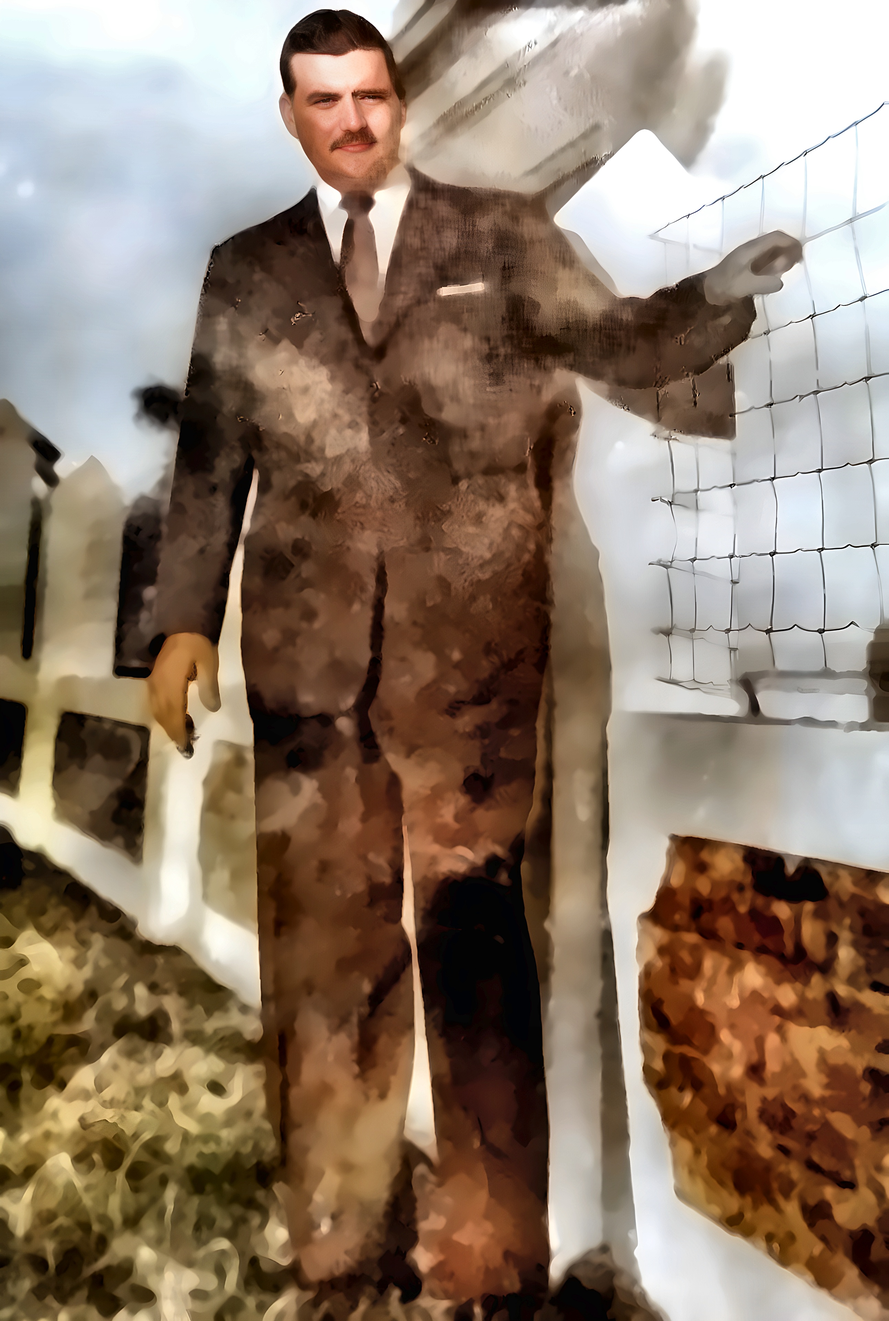
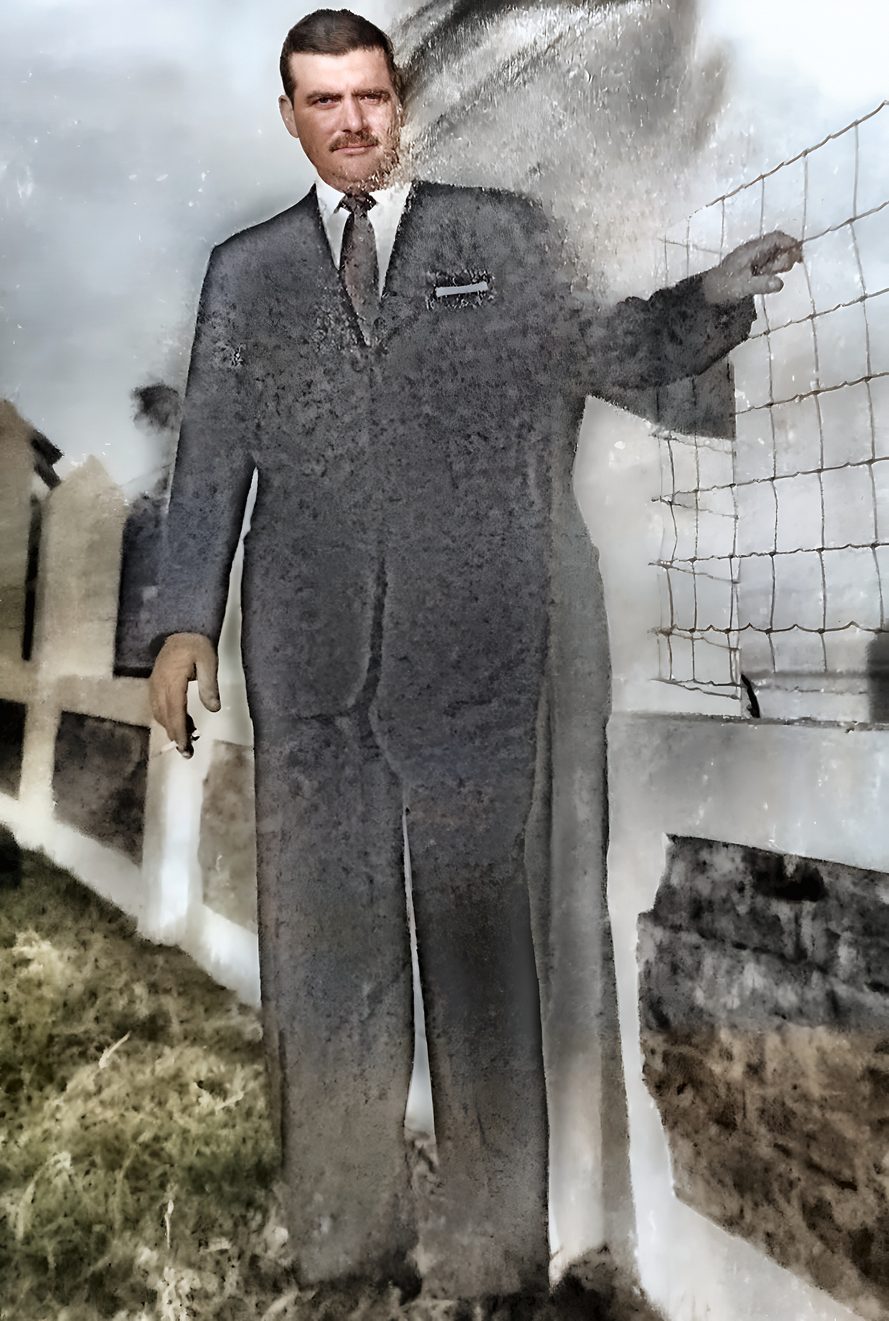
Restauración v2: sin manchas de humedad y sin efecto acuarela
Rehace el proceso con inpainting LaMa sobre máscara manual de daño,
denoise SCUNet, aplanado tonal del traje, neutralización del fantasma
sepia y SR con realesr-general-x4v3 más GFPGAN. Reemplaza el resultado
anterior y consolida el pipeline reproducible en scripts/pipeline_v2.py.

Claude-Session: https://claude.ai/code/session_014x9TZnxPBi37MxRu4q3MLT

diff --git a/restauracion-foto/scripts/pipeline_v2.py b/restauracion-foto/scripts/pipeline_v2.py
@@ -1,0 +1,180 @@
+#!/usr/bin/env python3
+"""Pipeline v2 de restauración completo, el que produjo el resultado final.
+
+Uso: python3 pipeline_v2.py <foto_entrada> <dir_salida>
+Requiere: torch, opencv, iopaint (LaMa), realesrgan, gfpgan, basicsr,
+el repo richzhang/colorization y el repo cszn/SCUNet en el PYTHONPATH,
+y estos pesos en ~/.cache/weights: big-lama.pt (en ~/.cache/torch/hub/checkpoints),
+scunet_color_real_gan.pth, realesr-general-x4v3.pth, realesr-general-wdn-x4v3.pth,
+GFPGANv1.3.pth. La colorización baja sus pesos sola del S3 del autor.
+"""
+import os
+import sys
+
+import numpy as np
+import cv2
+import torch
+
+SRC, OUT = sys.argv[1], sys.argv[2]
+W = os.path.expanduser("~/.cache/weights")
+os.makedirs(OUT, exist_ok=True)
+
+# --- 1. gris limpio, sin denoise ---
+gray = cv2.cvtColor(cv2.imread(SRC), cv2.COLOR_BGR2GRAY)
+lo, hi = np.percentile(gray, (0.5, 99.5))
+gray = np.clip((gray.astype(np.float32) - lo) * (255.0 / max(hi - lo, 1)), 0, 255).astype(np.uint8)
+gray = cv2.createCLAHE(clipLimit=1.5, tileGridSize=(8, 8)).apply(gray)
+h, w = gray.shape
+
+# --- 2. mascara manual de daño (coordenadas para 1077x1600) ---
+mask = np.zeros((h, w), np.uint8)
+cv2.ellipse(mask, (762, 220), (100, 90), -20, 0, 360, 255, -1)   # papel blanco
+cv2.ellipse(mask, (570, 1100), (105, 95), 0, 0, 360, 255, -1)    # hongos pantalon
+cv2.ellipse(mask, (575, 955), (52, 47), 0, 0, 360, 255, -1)
+for p1, p2, t in [((470, 5), (705, 220), 24), ((455, 55), (668, 245), 20),
+                  ((520, 0), (760, 170), 18), ((445, 0), (525, 65), 34),
+                  ((610, 150), (740, 250), 14), ((462, 45), (700, 215), 26),
+                  ((448, 100), (660, 262), 22), ((440, 155), (600, 290), 18),
+                  ((830, 0), (905, 110), 20), ((845, 5), (900, 95), 16)]:
+    cv2.line(mask, p1, p2, 255, t)                               # rayas de revelado
+pts = np.array([[478, 255], [730, 262], [665, 490], [560, 525], [480, 430]], np.int32)
+cv2.fillPoly(mask, [pts], 255)                                   # moteado pecho der
+pts = np.array([[268, 285], [362, 270], [382, 420], [300, 445]], np.int32)
+cv2.fillPoly(mask, [pts], 255)                                   # moteado pecho izq
+box = cv2.boxPoints(((690, 400), (130, 230), 15))
+cv2.fillPoly(mask, [box.astype(np.int32)], 255)                  # velo hombro
+excl = np.zeros_like(mask)
+cv2.rectangle(excl, (325, 55), (485, 240), 255, -1)              # cara
+cv2.rectangle(excl, (382, 222), (470, 432), 255, -1)             # camisa y corbata
+cv2.rectangle(excl, (512, 328), (600, 372), 255, -1)             # pañuelo
+cv2.rectangle(excl, (878, 265), (980, 365), 255, -1)             # mano derecha
+cv2.rectangle(excl, (175, 775), (272, 935), 255, -1)             # mano izquierda
+mask[excl > 0] = 0
+mask = cv2.dilate(mask, np.ones((3, 3), np.uint8))
+
+# --- 3. LaMa ---
+from iopaint.model.lama import LaMa
+from iopaint.schema import InpaintRequest, HDStrategy
+lama = LaMa("cpu")
+cfg = InpaintRequest(hd_strategy=HDStrategy.ORIGINAL)
+res = lama(cv2.cvtColor(gray, cv2.COLOR_GRAY2RGB), mask, cfg)
+inpainted = np.clip(res, 0, 255).astype(np.uint8)
+
+# --- 4. colorizacion siggraph17 + post de croma ---
+import colorizers as C
+rgb = cv2.cvtColor(inpainted, cv2.COLOR_BGR2RGB)
+tl_orig, tl_rs = C.preprocess_img(rgb, HW=(256, 256))
+sig = C.siggraph17(pretrained=True).eval()
+with torch.no_grad():
+    out = C.postprocess_tens(tl_orig, sig(tl_rs).cpu())
+bgr = cv2.cvtColor((np.clip(out, 0, 1) * 255).astype(np.uint8), cv2.COLOR_RGB2BGR)
+lab = cv2.cvtColor(bgr, cv2.COLOR_BGR2LAB)
+L, a, b = cv2.split(lab)
+a = cv2.medianBlur(cv2.bilateralFilter(a, 15, 35, 15), 5)
+b = cv2.medianBlur(cv2.bilateralFilter(b, 15, 35, 15), 5)
+af, bf = a.astype(np.float32) - 128, b.astype(np.float32) - 128
+ch = np.sqrt(af**2 + bf**2)
+f = np.where(ch > 34, 34 / np.maximum(ch, 1e-6), 1.0) * np.where(ch < 12, 1.15, 1.0)
+a = np.clip(af * f + 128, 0, 255).astype(np.uint8)
+b = np.clip(bf * f + 128, 0, 255).astype(np.uint8)
+bgr = cv2.cvtColor(cv2.merge([L, a, b]), cv2.COLOR_LAB2BGR)
+imgf = bgr.astype(np.float32)
+m = L > 170
+means = [imgf[:, :, c][m].mean() for c in range(3)]
+t = float(np.mean(means))
+for c in range(3):
+    imgf[:, :, c] *= t / means[c]
+color = np.clip(imgf, 0, 255).astype(np.uint8)
+
+# --- 5. SCUNet GAN por mosaicos ---
+from models.network_scunet import SCUNet
+net = SCUNet(in_nc=3, config=[4, 4, 4, 4, 4, 4, 4], dim=64)
+net.load_state_dict(torch.load(f"{W}/scunet_color_real_gan.pth"), strict=True)
+net.eval()
+inp = torch.from_numpy(cv2.cvtColor(color, cv2.COLOR_BGR2RGB).astype(np.float32) / 255.0).permute(2, 0, 1).unsqueeze(0)
+tile, ov = 384, 32
+acc, wgt = torch.zeros_like(inp), torch.zeros_like(inp)
+with torch.no_grad():
+    for y in range(0, h, tile - ov):
+        for x in range(0, w, tile - ov):
+            y1, x1 = min(y + tile, h), min(x + tile, w)
+            y0, x0 = max(0, y1 - tile), max(0, x1 - tile)
+            acc[:, :, y0:y1, x0:x1] += net(inp[:, :, y0:y1, x0:x1])
+            wgt[:, :, y0:y1, x0:x1] += 1
+den = (acc / wgt).squeeze(0).permute(1, 2, 0).numpy()
+den = cv2.cvtColor((np.clip(den, 0, 1) * 255).astype(np.uint8), cv2.COLOR_RGB2BGR)
+
+# --- 6. segunda pasada LaMa: residuo de rayas y motas claras ---
+g = cv2.cvtColor(den, cv2.COLOR_BGR2GRAY)
+mask2 = np.zeros((h, w), np.uint8)
+for p1, p2, t in [((540, 35), (705, 195), 26), ((500, 85), (645, 225), 20),
+                  ((575, 0), (690, 105), 22), ((455, 25), (545, 110), 20)]:
+    cv2.line(mask2, p1, p2, 255, t)
+med = cv2.medianBlur(g, 11)
+big = cv2.GaussianBlur(g, (61, 61), 0)
+cand = (((g.astype(np.int16) - med.astype(np.int16)) > 9) & (big < 120)).astype(np.uint8) * 255
+n, labels, stats, _ = cv2.connectedComponentsWithStats(cand, 8)
+for i in range(1, n):
+    if stats[i, cv2.CC_STAT_AREA] <= 220:
+        mask2[labels == i] = 255
+mask2[excl > 0] = 0
+mask2 = cv2.dilate(mask2, np.ones((3, 3), np.uint8))
+res = lama(cv2.cvtColor(den, cv2.COLOR_BGR2RGB), mask2, cfg)
+limpia = np.clip(res, 0, 255).astype(np.uint8)
+
+# --- 7. aplanado tonal del traje (pasabanda en L, silueta por croma neutro) ---
+lab = cv2.cvtColor(limpia, cv2.COLOR_BGR2LAB)
+L = lab[:, :, 0].astype(np.float32)
+a = lab[:, :, 1].astype(np.float32)
+b = lab[:, :, 2].astype(np.float32)
+mm = ((cv2.GaussianBlur(L, (0, 0), 25) < 120)
+      & (np.abs(cv2.GaussianBlur(a, (0, 0), 15) - 128) < 7)
+      & (np.abs(cv2.GaussianBlur(b, (0, 0), 15) - 128) < 9)).astype(np.float32)
+sil = np.zeros_like(mm)
+sil[0:1500, 185:765] = 1.0
+mm = mm * cv2.GaussianBlur(sil, (0, 0), 20)
+mm = cv2.GaussianBlur(mm, (0, 0), 15)
+band1 = cv2.GaussianBlur(L, (0, 0), 8) - cv2.GaussianBlur(L, (0, 0), 30)
+band2 = cv2.GaussianBlur(L, (0, 0), 18) - cv2.GaussianBlur(L, (0, 0), 70)
+lab[:, :, 0] = np.clip(L - (band1 * 0.9 + band2 * 0.75) * mm, 0, 255).astype(np.uint8)
+plano = cv2.cvtColor(lab, cv2.COLOR_LAB2BGR)
+
+# --- 8. neutralizar el fantasma sepia de la derecha ---
+lab = cv2.cvtColor(plano, cv2.COLOR_BGR2LAB).astype(np.float32)
+L, a, b = lab[:, :, 0], lab[:, :, 1], lab[:, :, 2]
+warm = ((cv2.GaussianBlur(b, (0, 0), 9) - 128 > 4)
+        | (cv2.GaussianBlur(a, (0, 0), 9) - 128 > 3)).astype(np.float32)
+boxm = np.zeros_like(warm)
+boxm[0:1250, 430:w] = 1.0
+excl2 = np.zeros_like(warm)
+cv2.rectangle(excl2, (320, 50), (500, 250), 1.0, -1)
+cv2.rectangle(excl2, (870, 255), (990, 380), 1.0, -1)
+mn = cv2.GaussianBlur(warm * boxm * (1 - excl2), (0, 0), 12)
+lab[:, :, 1] = a + (128 - a) * 0.8 * mn
+lab[:, :, 2] = b + (128 - b) * 0.8 * mn
+neutra = cv2.cvtColor(np.clip(lab, 0, 255).astype(np.uint8), cv2.COLOR_LAB2BGR)
+
+# --- 9. SR x4 + GFPGAN + acabado ---
+from basicsr.archs.srvgg_arch import SRVGGNetCompact
+from realesrgan import RealESRGANer
+from gfpgan import GFPGANer
+model = SRVGGNetCompact(num_in_ch=3, num_out_ch=3, num_feat=64, num_conv=32, upscale=4, act_type="prelu")
+up = RealESRGANer(4, [f"{W}/realesr-general-x4v3.pth", f"{W}/realesr-general-wdn-x4v3.pth"],
+                  model=model, tile=400, tile_pad=10, half=False, device="cpu", dni_weight=[0.6, 0.4])
+fe = GFPGANer(model_path=f"{W}/GFPGANv1.3.pth", upscale=4, arch="clean",
+              channel_multiplier=2, bg_upsampler=up, device="cpu")
+_, _, sr = fe.enhance(neutra, has_aligned=False, only_center_face=False, paste_back=True)
+scale = 3840 / max(sr.shape[:2])
+final = cv2.resize(sr, (round(sr.shape[1] * scale), round(sr.shape[0] * scale)), interpolation=cv2.INTER_AREA)
+lab = cv2.cvtColor(final, cv2.COLOR_BGR2LAB)
+lab[:, :, 0] = cv2.createCLAHE(clipLimit=1.2, tileGridSize=(10, 10)).apply(lab[:, :, 0])
+final = cv2.cvtColor(lab, cv2.COLOR_LAB2BGR)
+blur = cv2.GaussianBlur(final, (0, 0), 1.4)
+final = cv2.addWeighted(final, 1.4, blur, -0.4, 0)
+rng = np.random.default_rng(7)
+grano = cv2.GaussianBlur(rng.normal(0, 1.6, final.shape[:2]).astype(np.float32), (0, 0), 0.6)
+final = np.clip(final.astype(np.float32) + grano[:, :, None], 0, 255).astype(np.uint8)
+
+cv2.imwrite(f"{OUT}/foto_restaurada_4k.png", final)
+cv2.imwrite(f"{OUT}/foto_restaurada_4k.jpg", final, [cv2.IMWRITE_JPEG_QUALITY, 95])
+print("final:", final.shape[1], "x", final.shape[0])

diff --git a/restauracion-foto/README.md b/restauracion-foto/README.md
@@ -1,25 +1,28 @@
 # Restauración de foto antigua a color 4K
 
-Restauración de una foto familiar en sepia, muy deteriorada, llevada a color y resolución 4K (2585x3840, lado largo 3840 px).
+Restauración de una foto familiar en sepia, muy deteriorada por humedad, llevada a color y resolución 4K (2585x3840, lado largo 3840 px).
 
 ## Archivos
 
-- `original.jpg`. La foto de partida, escaneo de 1077x1600 con viraje sepia, hongos y manchas de revelado.
+- `original.jpg`. La foto de partida, escaneo de 1077x1600 con viraje sepia, manchas de humedad, hongos y rayas de revelado.
 - `foto_restaurada_4k.jpg`. Resultado final en JPEG calidad 95.
 - `foto_restaurada_4k.png`. El mismo resultado sin pérdida.
-- `scripts/`. Los tres scripts de Python del proceso.
+- `scripts/pipeline_v2.py`. El pipeline completo y reproducible, con todos los parámetros.
 
 ## Proceso
 
-Todo el trabajo se hizo con Python sobre modelos de código abierto.
+Todo el trabajo se hizo con Python sobre modelos de código abierto. El daño no se difuminó con filtros, se eliminó regenerando la imagen debajo de cada mancha.
 
-1. Limpieza en escala de grises. Estirado de histograma por percentiles, CLAHE suave y denoise no local (`restaurar.py`).
-2. Colorización con la red siggraph17 de Zhang et al. (repo richzhang/colorization, pesos oficiales). Se probó también eccv16 y se descartó por dominante amarilla.
-3. Post-proceso de color (`postproceso.py`). Suavizado bilateral de los canales a/b, tope de croma, balance de blancos gray-world anclado en la pared, curva en S.
-4. Despeckle en dos rondas contra la mediana local y atenuación de manchas guiada por densidad de outliers, para las zonas con hongos del traje.
-5. Superresolución x4 con Real-ESRGAN (RealESRGAN_x4plus) y reconstrucción del rostro con GFPGAN v1.3 (`sr_gfpgan.py`), en CPU con procesado por mosaicos.
-6. Acabado. Microcontraste, vibrance leve y máscara de enfoque fino, con reescalado a lado largo 3840.
+1. Limpieza en escala de grises. Estirado de histograma por percentiles y CLAHE suave, sin denoise en esta etapa.
+2. Máscara manual de daño (10,6% del área). Mancha blanca de papel adherido, rayas diagonales de revelado, moteado denso del pecho, velo del hombro derecho y hongos del pantalón. Cara, camisa, corbata, pañuelo y manos quedan protegidos.
+3. Inpainting profundo con LaMa (big-lama). Regenera pared, red, saco y pantalón debajo de cada mancha.
+4. Colorización con la red siggraph17 de Zhang et al. y post-proceso solo de croma. Suavizado bilateral de a/b, tope de croma y balance de blancos anclado en los claros.
+5. Denoise real con SCUNet (variante GAN), entrenado para ruido complejo. Elimina el grano grueso y el moho fino sin efecto acuarela.
+6. Segunda pasada de LaMa para el residuo de rayas y las motas claras chicas.
+7. Aplanado tonal del traje con filtro pasabanda de luminancia restringido a la silueta. Borra los parches de humedad de frecuencia media que sobreviven al denoise.
+8. Neutralización cromática del fantasma sepia de la derecha (doble exposición del positivado). Su croma cálido se lleva al gris de la pared y pasa a leerse como sombra fuera de foco.
+9. Superresolución x4 con realesr-general-x4v3, reconstrucción del rostro con GFPGAN v1.3, reescalado a lado largo 3840, microcontraste, nitidez fina y un grano fotográfico sutil para acabado de cámara actual.
 
-## Límites
+## Fuentes de los modelos
 
-El original tiene daño químico severo en el pecho y hombros del saco. Esa zona quedó pareja pero conserva variaciones de tono que en una foto moderna no existirían. Eliminarlas del todo pediría repintado generativo, fuera del alcance de estos modelos.
+El entorno bloquea Hugging Face y Dropbox. Los pesos salieron de GitHub releases (big-lama de Sanster/models, SCUNet de cszn/KAIR, Real-ESRGAN y GFPGAN de sus repos oficiales) y del S3 del autor de la colorización (colorizers.s3.us-east-2.amazonaws.com).
